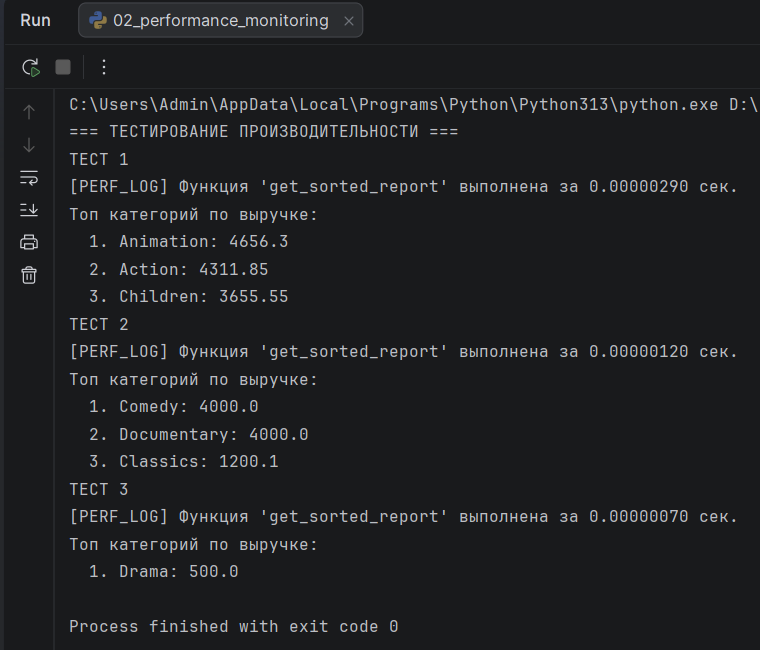
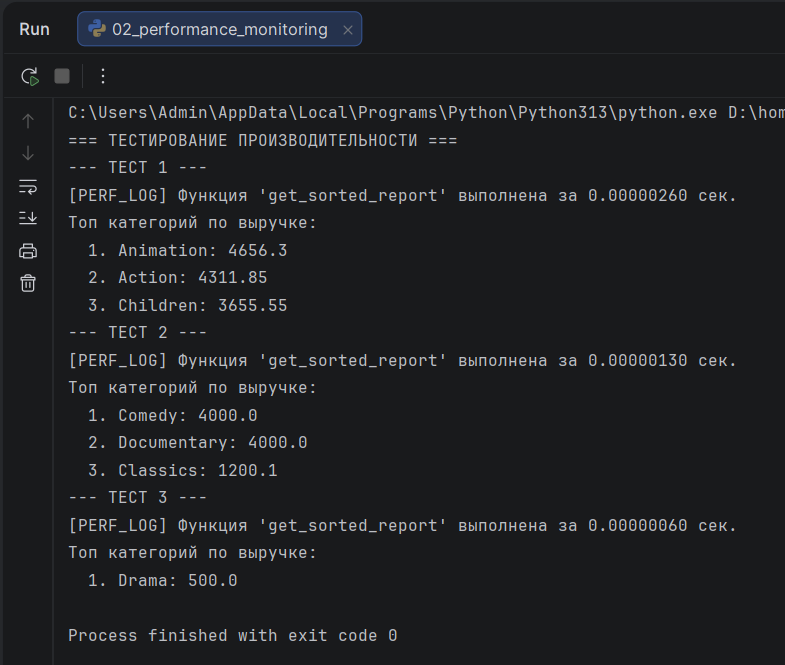
homework8: update type hints and fix output formatting

diff --git a/homework_8/03_safe_return_processing.py b/homework_8/03_safe_return_processing.py
@@ -1,13 +1,13 @@
 # Homework 8, Task 3: Safe return processing with try-except-finally
 
-from typing import Any, Optional, Tuple
+from typing import Any
 
 DEFAULT_RETURN_INDEX_BASE = 10.0
 
 
 def calculate_overdue_fine(
-        film_title: str, days_overdue: Any, fine_rate: float
-) -> Optional[Tuple[float, float]]:
+    film_title: str, days_overdue: Any, fine_rate: float
+) -> tuple[float, float] | None:
     """Безопасно рассчитывает штраф за просрочку и индекс оборачиваемости.
 
     Обрабатывает типы ошибок:
@@ -21,14 +21,11 @@ def calculate_overdue_fine(
         fine_rate (float): Ставка штрафа за один день просрочки.
 
     Returns:
-        Optional[Tuple[float, float]]: Кортеж (total_fine, return_index) в случае успеха,
+        tuple[float, float] | None: Кортеж (total_fine, return_index) в случае успеха,
             или None, если возникла ошибка.
     """
     try:
         numeric_days = float(days_overdue)
-        if numeric_days == 0:
-            raise ZeroDivisionError("float division by zero")
-
         total_fine = numeric_days * fine_rate
         return_index = DEFAULT_RETURN_INDEX_BASE / numeric_days
 
@@ -39,13 +36,13 @@ def calculate_overdue_fine(
         print(f"[ОШИБКА ТИПА] Некорректный тип данных для '{film_title}': {e}")
         return None
     except ValueError as e:
-        print(f"[ОШИБКА ЗНАЧЕНИЯ] Некоректная строка с днями просрочки для '{film_title}': {e}")
+        print(f"[ОШИБКА ЗНАЧЕНИЯ] Невозможно преобразовать дни в число для '{film_title}': {e}")
         return None
     except ZeroDivisionError as e:
         print(f"[ОШИБКА ДЕЛЕНИЯ НА НОЛЬ] Возврат без просрочки для '{film_title}': {e}")
         return None
     finally:
-        print("Проверка транзакции возврата завершена")
+        print("--- Проверка транзакции возврата завершена ---")
 
 
 # Тестирование обработки ошибок

diff --git a/homework_8/02_performance_monitoring.py b/homework_8/02_performance_monitoring.py
@@ -1,7 +1,7 @@
 # Homework 8, Task 2: Analytics performance monitoring
 
 import time
-from typing import Any, Callable, Dict, List
+from typing import Any, Callable
 
 PERFORMANCE_LOG_PREFIX = "[PERF_LOG]"
 TIME_DECIMALS = 8
@@ -30,14 +30,14 @@ def performance_logger(func: Callable) -> Callable:
 
 
 @performance_logger
-def get_sorted_report(data: List[Dict[str, Any]]) -> List[Dict[str, Any]]:
+def get_sorted_report(data: list[dict[str, str | float]]) -> list[dict[str, str | float]]:
     """Сортирует список категорий по убыванию выручки.
 
     Args:
-        data (List[Dict[str, Any]]): Список словарей с данными по категориям и выручке.
+        data (list[dict[str, str | float]]): Список словарей с данными по категориям и выручке.
 
     Returns:
-        List[Dict[str, Any]]: Отсортированный по убыванию total_sales список словарей.
+        list[dict[str, str | float]]: Отсортированный по убыванию total_sales список словарей.
     """
     return sorted(data, key=lambda item: item["total_sales"], reverse=True)
 
@@ -64,7 +64,7 @@ if __name__ == "__main__":
 
     print("=== ТЕСТИРОВАНИЕ ПРОИЗВОДИТЕЛЬНОСТИ ===")
     for idx, test in enumerate(tests, start=1):
-        print(f"ТЕСТ {idx}")
+        print(f"--- ТЕСТ {idx} ---")
         report = get_sorted_report(test)
         print("Топ категорий по выручке:")
         for item_idx, item in enumerate(report, start=1):

diff --git a/homework_8/01_rental_batch.py b/homework_8/01_rental_batch.py
@@ -1,13 +1,11 @@
 # Homework 8, Task 1: Wholesale movie rental calculation
 
-from typing import Tuple
-
 MAX_RENTAL_BATCH_LIMIT = 150.0
 
 
 def calculate_rental_batch(
-        quantity: int, rental_rate: float, discount: float = 0.0
-) -> Tuple[float, bool]:
+    quantity: int, rental_rate: float, discount: float = 0.0
+) -> tuple[float, bool]:
     """Рассчитывает стоимость партии аренды и проверяет превышение лимита.
 
     Args:
@@ -16,7 +14,7 @@ def calculate_rental_batch(
         discount (float, optional): Размер скидки (например, 0.10 для 10%). По умолчанию 0.0.
 
     Returns:
-        Tuple[float, bool]: Кортеж из двух элементов:
+        tuple[float, bool]: Кортеж из двух элементов:
             - final_sum (float): Итоговая стоимость партии с округлением до 2 знаков.
             - is_limit_exceeded (bool): Флаг превышения лимита MAX_RENTAL_BATCH_LIMIT.
     """
